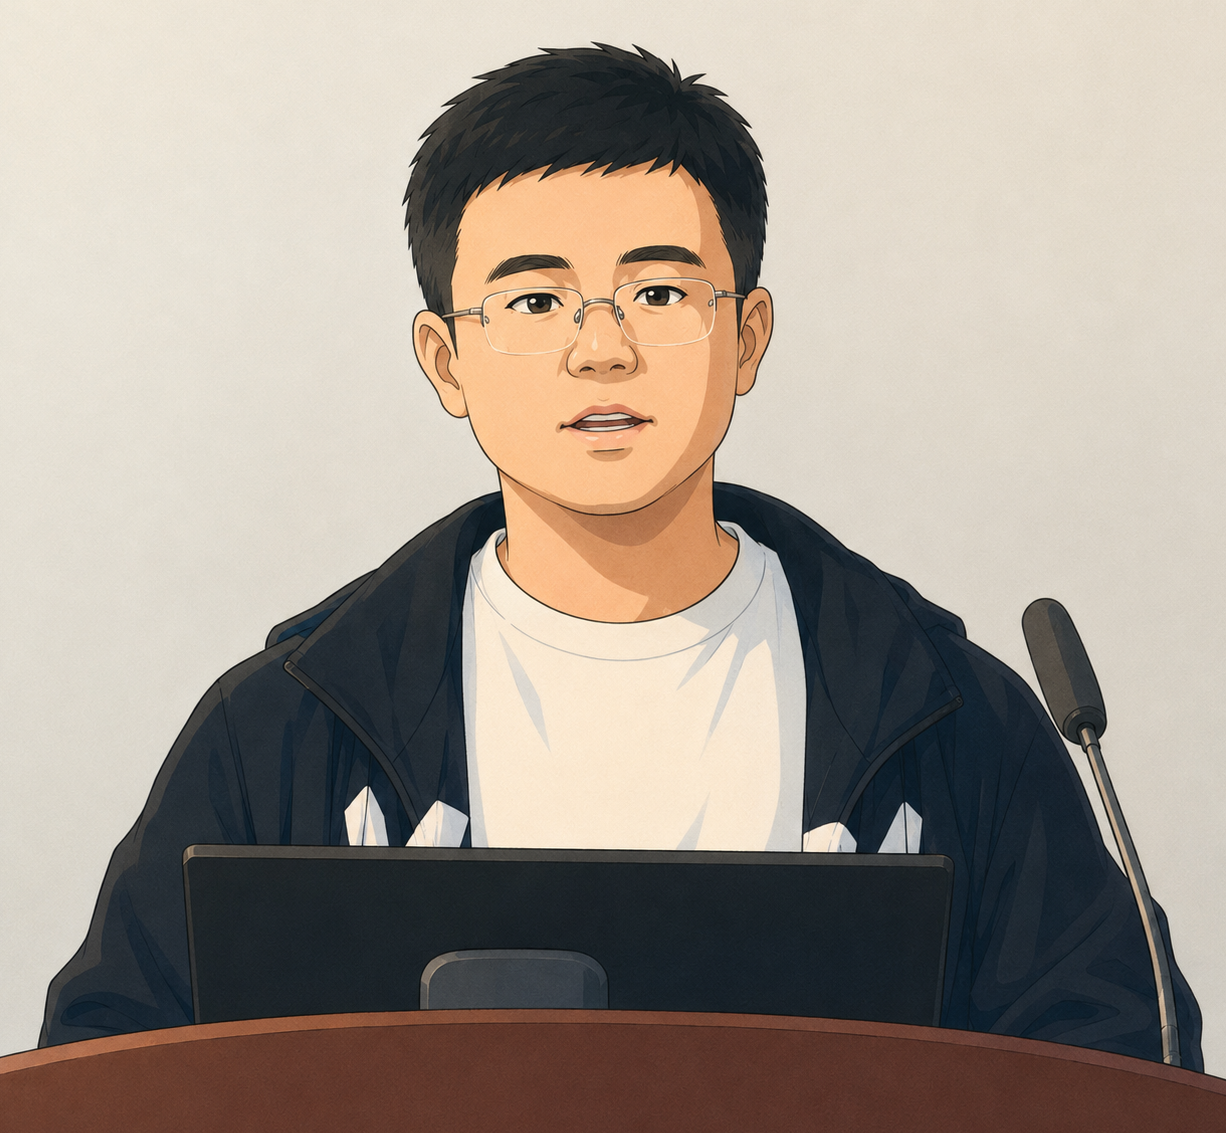
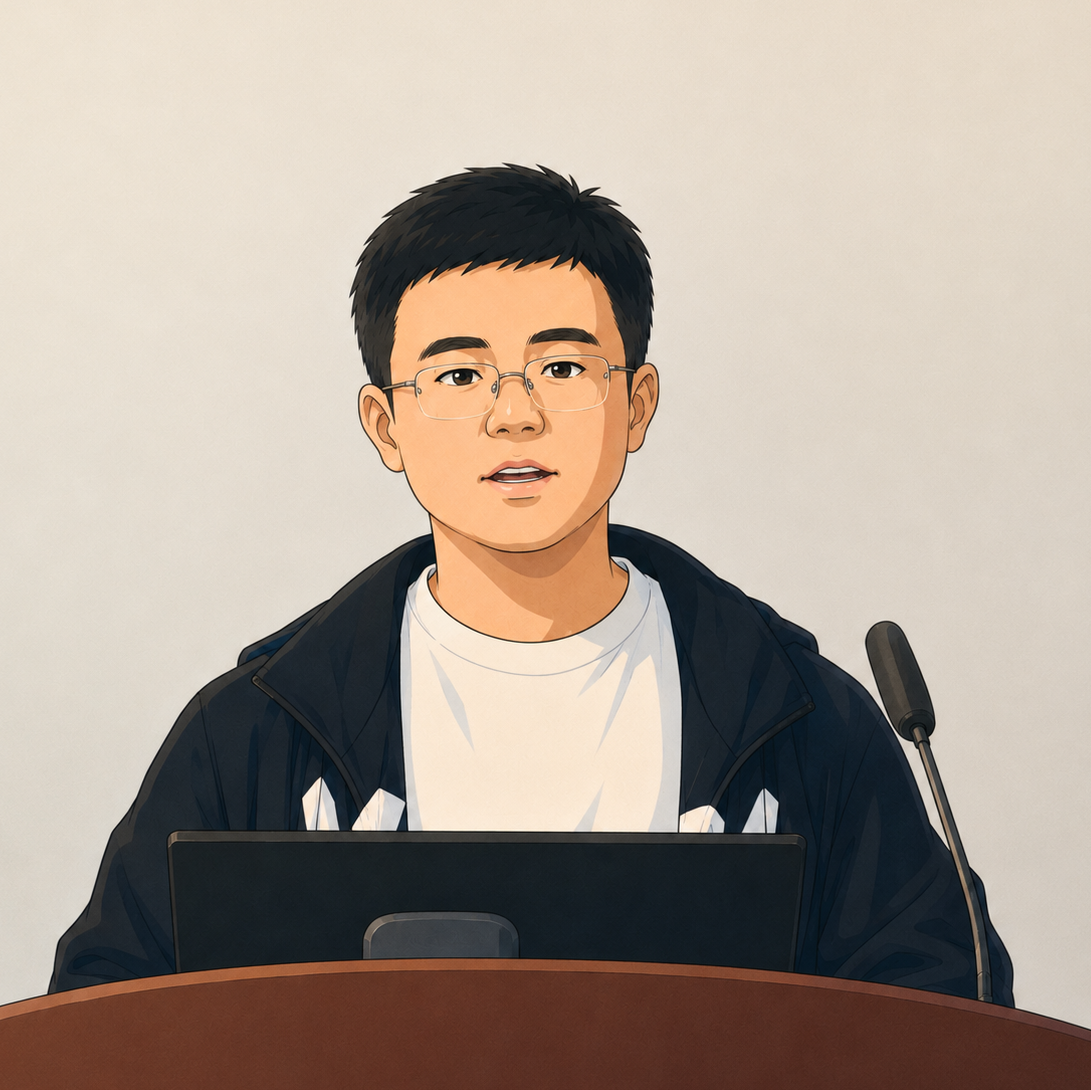
update about

Changed region(s): [[0.0, 0.0312, 1.0, 0.967]]

diff --git a/_pages/about.md b/_pages/about.md
@@ -12,7 +12,9 @@ redirect_from:
 
 I am a first-year PhD student in a combined master's–PhD program in Software Engineering at the University of Electronic Science and Technology of China (UESTC), under the supervision of Prof [Fan Zhou](https://scholar.google.com/citations?user=Ihj2Rw8AAAAJ). Previously, I received Bachelor of Engineering degree from Fuzhou University. 
 
-My research focuses on <strong>Robust & Personalized Multimodal Intelligence</strong> for <strong>non-ideal</strong> and <strong>dynamic</strong> real-world environments. I am enthusiastic about designing multimodal systems that can perform effectively under <strong>(1) imperfect inputs and environments</strong> (e.g., modality missing, distribution shifts) and <strong>(2) user-specific dynamics</strong> (e.g., MLLM personalization). I am also interested in <strong>multimodal video understanding and detection</strong>, where I am dedicated to improving the generalization and robustness of detection models in real-world scenarios.
+My research mainly focuses on <strong>Robust & Personalized Multimodal Intelligence</strong> for <strong>non-ideal</strong> and <strong>dynamic</strong> real-world environments. I am enthusiastic about designing multimodal systems that remain robust under <strong>(1) non-ideal inputs and environments</strong> (e.g., missing modalities, distribution shifts) and adaptive to <strong>(2) user-specific dynamics</strong> (e.g., MLLM personalization).
+
+I am also interested in understanding, detecting, and moderating <strong>user-generated multimodal content and videos</strong> on online platforms, with a focus on improving the <strong>generalization, robustness, and interpretability</strong> of detection models in dynamic real-world scenarios, while leveraging MLLMs and intelligent agents.
   
 Feel free to contact me if you have any questions about my research or potential collaboration opportunities.
 
